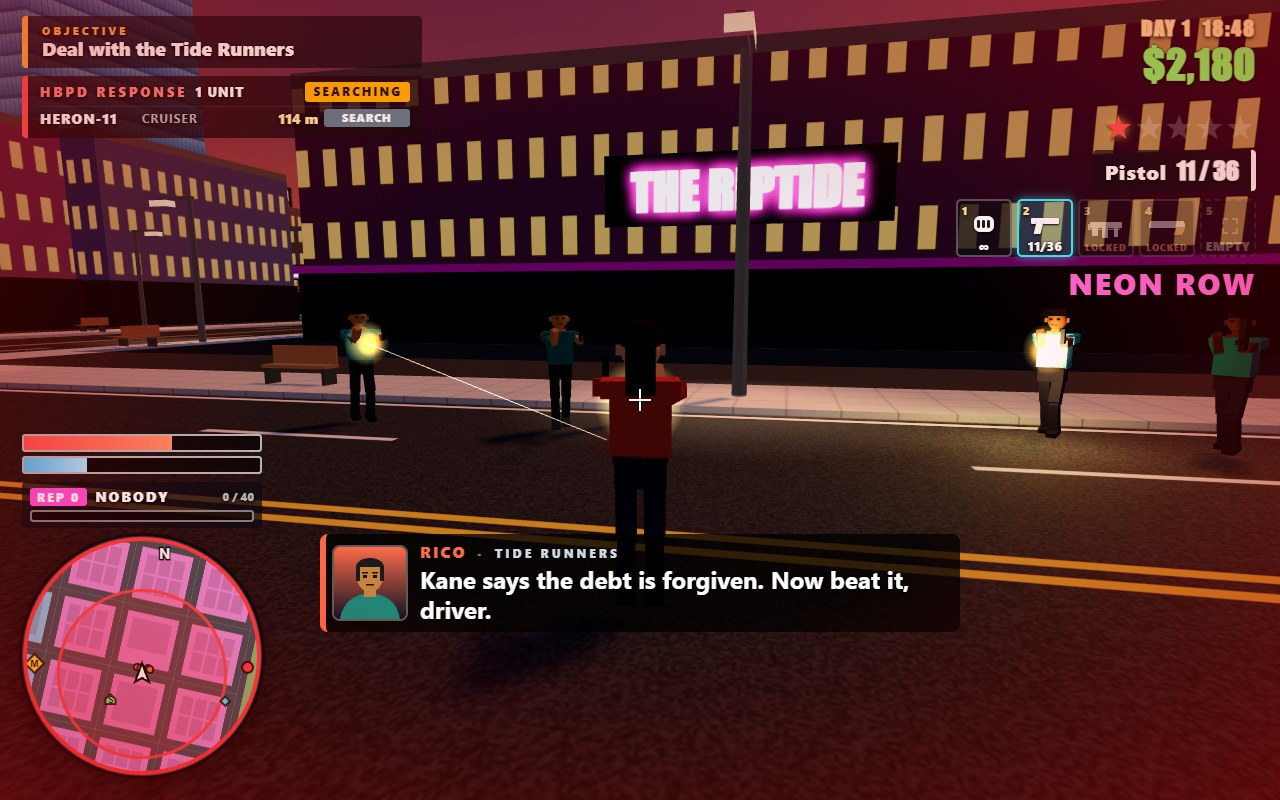
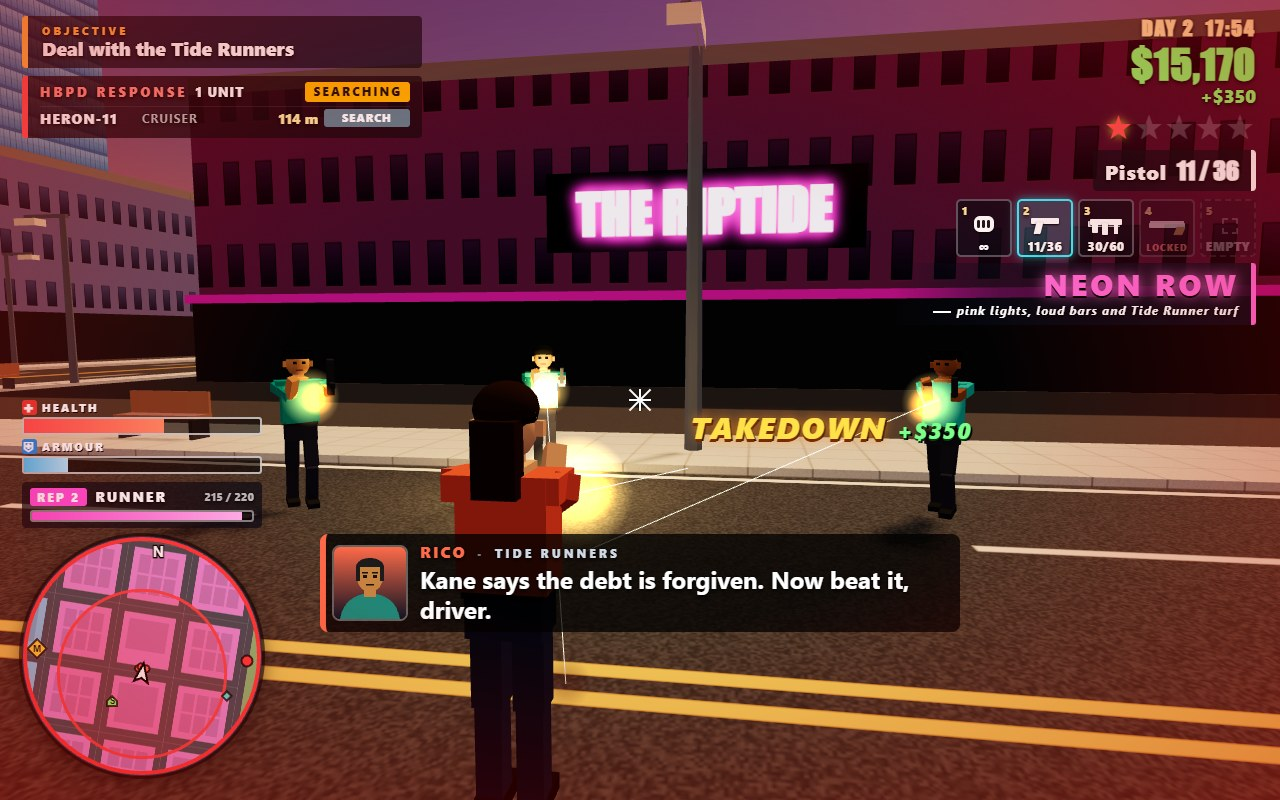
Eighth story mission Pier Pressure; vista shot replaces the map; brighter on-foot and side-card mission shots

diff --git a/game/src/shots.js b/game/src/shots.js
@@ -172,19 +172,23 @@ export async function stageShot(name, G) {
 
   if (name === 'onfoot') {
     const b = L.gangBar;
-    G.world.sky.setHour(18.8);
+    G.world.sky.setHour(17.9);
     G.player.revive(b.x + 1, b.z + 10, Math.PI);
-    G.economy.money = 2180;
+    G.missions.restore({ completed: ['welcome', 'clock', 'neon'] });
+    G.world.sky.state.day = 2;
+    G.economy.money = 14820;
+    G.economy.rep = 215;
     G.player.health = 64;
     G.player.armor = 30;
     G.weapons.give('pistol', 48);
+    G.weapons.give('smg', 90);
     G.weapons.select('pistol');
     G.wanted.setStars(1);
     G.wanted.search.x = b.x;
     G.wanted.search.z = b.z;
     G.wanted.search.r = 90;
     G.hud.setObjective('Deal with the Tide Runners');
-    const squad = G.gangs.spawnSquad([{ x: b.x - 4.5, z: b.z + 3 }, { x: b.x + 5, z: b.z + 2, weapon: 'smg' }, { x: b.x - 1, z: b.z + 5.5 }, { x: b.x + 9, z: b.z + 4.5 }]);
+    const squad = G.gangs.spawnSquad([{ x: b.x - 2.6, z: b.z + 4.2 }, { x: b.x + 3.2, z: b.z + 3.4, weapon: 'smg' }, { x: b.x + 0.2, z: b.z + 2.2 }]);
     crowd(G, [[b.x - 12, b.z + 6, true], [b.x - 9, b.z + 9, true], [b.x + 13, b.z + 7, true], [b.x + 16, b.z + 11, true], [b.x - 16, b.z + 12, true], [b.x + 7, b.z + 14, true]], { x: b.x, z: b.z });
     G.traffic.spawnCar({ x: b.x - 26, z: b.z + 20.5, yaw: Math.PI / 2, node: G.nav.node(8, 4), dir: 'e', lane: 0 }, 'coupe');
     G.traffic.spawnCar({ x: b.x + 24, z: b.z + 14.5, yaw: -Math.PI / 2, node: G.nav.node(8, 4), dir: 'w', lane: 1 }, 'taxi');
@@ -192,19 +196,30 @@ export async function stageShot(name, G) {
     G.camera.update(0.016, G.player.focus(new THREE.Vector3()), 'foot', null, G.input, G.world.colliders, window.innerWidth);
     G.simulate(0.7, 1 / 60);
     G.player.aimTimer = 3;
-    G.camera.snapTo(Math.PI + 0.22, 0.14);
-    G.camera.update(0.016, G.player.focus(new THREE.Vector3()), 'foot', null, G.input, G.world.colliders, window.innerWidth);
-    G.player.yaw = Math.PI + 0.22;
+    G.player.yaw = Math.PI + 0.08;
     G.simulate(0.02, 1 / 60);
     G.weapons.cooldown = 0;
     G.weapons.fire();
     G.gangs.shoot(squad[0]);
     G.gangs.shoot(squad[1]);
-    G.hud.say('Rico', 'Kane says the debt is forgiven. Now beat it, driver.', 8, '#ff6b4a');
+    G.gangs.shoot(squad[2]);
     G.simulate(1 / 60, 1 / 60);
-    G.camera.update(0.016, G.player.focus(new THREE.Vector3()), 'foot', null, G.input, G.world.colliders, window.innerWidth);
+    // Over Sol's right shoulder, close, the three Runners big in frame; a dusk grade bright enough
+    // to read the street under the neon.
+    G.camera.camera.fov = 58;
+    G.camera.camera.updateProjectionMatrix();
+    const p = G.player;
+    placeCamera(G, { x: p.x + 1.1, y: 2.25, z: p.z + 3.1 }, { x: b.x + 0.4, y: 1.25, z: b.z + 2.5 });
+    G.renderer.toneMappingExposure = 1.3;
+    G.world.sky.sun.color.set('#ffc890');
+    G.world.scene.fog.color.set('#c89a8a');
+    G.world.scene.traverse((o) => {
+      if (o.isHemisphereLight) { o.color.set('#ffe0c0'); o.groundColor.set('#8a7a90'); o.intensity *= 1.4; }
+    });
     finish();
     G.hud.say('Rico', 'Kane says the debt is forgiven. Now beat it, driver.', 8, '#ff6b4a');
+    G.hud.stunt('TAKEDOWN', 350, '', 'takedown');
+    G.hud.hitMarker(false);
     G.hud.update(0.016);
     return;
   }
@@ -227,27 +242,82 @@ export async function stageShot(name, G) {
   }
 
   if (name === 'mission') {
-    G.missions.restore({ completed: ['welcome', 'clock', 'neon', 'tail', 'docks'] });
+    // Pier Pressure (mission 7 of 8) just paid out: the white sedan parked on Ocean Drive at sunset,
+    // the compact results card at the right edge and the full HUD undimmed beside it.
+    G.missions.restore({ completed: ['welcome', 'clock', 'neon', 'tail', 'docks', 'bank'] });
+    G.world.sky.state.day = 2;
     G.economy.stats.carsStolen = 23;
-    G.economy.stats.escapes = 6;
+    G.economy.stats.escapes = 7;
     G.activities.restore({ shards: [0, 1, 3, 5, 7, 9, 11, 13, 15], racesWon: { coast: 1, downtown: 1 } });
-    G.player.distanceDriven = 42300;
-    const spot = L.bankRoad;
-    G.world.sky.setHour(17.7);
-    const car = G.fleet.spawn('coupe', spot.x, spot.z + 6, 0, { color: '#ffd166', role: 'player', owner: 'player' });
-    G.player.revive(spot.x - 4, spot.z + 2, Math.PI / 2);
+    G.player.distanceDriven = 48600;
+    G.world.sky.setHour(17.55);
+    const x = layout.roadX(4) + 30;
+    const z = layout.oceanZ + 1.75;
+    const car = G.fleet.spawn('sedan', x, z, Math.PI / 2 - 0.25, { color: '#f4f1e8', role: 'player', owner: 'player' });
+    G.player.revive(x - 2.5, z + 3.2, Math.PI);
+    G.weapons.give('pistol', 64);
+    G.weapons.give('smg', 120);
+    G.weapons.select('smg');
+    crowd(G, [[x + 6, layout.boardwalkZ + 2.5, false], [x - 8, layout.boardwalkZ + 3, false], [x + 14, layout.oceanZ - 9, false], [x - 14, layout.oceanZ - 8.6, false]], { x, z });
+    G.traffic.spawnCar({ x: x + 26, z: layout.oceanZ - 5.25, yaw: -Math.PI / 2, node: G.nav.node(5, 9), dir: 'w', lane: 1 }, 'taxi');
     G.simulate(0.4, 1 / 60);
-    const bank = G.missions.defs.find((d) => d.id === 'bank');
+    const pier = G.missions.defs.find((d) => d.id === 'pier');
     const tide = G.missions.defs.find((d) => d.id === 'tide');
-    G.missions.completed.add('bank');
-    G.economy.money = 9850;
-    G.economy.rep = 295;
-    G.economy.stats.missions = 6;
-    // From above the road, clear of the pavement palms, with the towers behind the panel.
-    const cam = { x: car.x - 6, y: 9.5, z: car.z + 24 };
-    placeCamera(G, cam, { x: car.x + 12, y: 13, z: car.z - 30 });
+    G.missions.completed.add('pier');
+    G.economy.money = 21480;
+    G.economy.rep = 395;
+    G.economy.stats.missions = 7;
+    // Low on the hotel side, the car in the left half of the frame, the beach and sunset sky behind.
+    G.camera.camera.fov = 52;
+    G.camera.camera.updateProjectionMatrix();
+    placeCamera(G, { x: car.x + 7, y: 2.6, z: car.z - 9 }, { x: car.x - 7, y: 2.4, z: car.z + 4 });
+    G.renderer.toneMappingExposure = 1.2;
     finish();
-    G.menus.showMissionComplete({ def: bank, money: 5000, rep: 80, levelUp: true, next: tide, finale: false });
+    G.menus.showMissionComplete({ def: pier, money: pier.reward.money, rep: pier.reward.rep, levelUp: false, next: tide, finale: false });
+    document.getElementById('menus').classList.add('side');
+    document.getElementById('hud').classList.remove('dimmed');
+    G.hud.update(0.016);
+    return;
+  }
+
+  if (name === 'vista') {
+    // High over Coral Strand at golden hour: the beach, the pier and its ferris wheel below, Ocean
+    // Drive's traffic and the boardwalk crowd, the Glasswater towers behind, the district card up.
+    G.missions.restore({ completed: ['welcome', 'clock', 'neon', 'tail'] });
+    G.world.sky.state.day = 2;
+    G.economy.money = 18640;
+    G.economy.rep = 260;
+    G.weapons.give('pistol', 48);
+    G.weapons.select('pistol');
+    G.world.sky.setHour(17.5);
+    const ps = L.pierStart;
+    for (let i = 0; i < 6; i += 1) {
+      const tx = ps.x - 70 + i * 26;
+      G.traffic.spawnCar({ x: tx, z: layout.oceanZ + (i % 2 ? 1.75 : 5.25), yaw: Math.PI / 2, node: G.nav.node(5, 9), dir: 'e', lane: i % 2 ? 0 : 1 }, ['taxi', 'sedan', 'coupe', 'pickup', 'van', 'taxi'][i]);
+      G.traffic.spawnCar({ x: tx + 12, z: layout.oceanZ - (i % 2 ? 1.75 : 5.25), yaw: -Math.PI / 2, node: G.nav.node(5, 9), dir: 'w', lane: i % 2 ? 0 : 1 }, ['sedan', 'coupe', 'taxi', 'van', 'sedan', 'pickup'][i]);
+    }
+    const walkers = [];
+    for (let i = 0; i < 18; i += 1) walkers.push([ps.x - 45 + i * 5, layout.boardwalkZ + 1.5 + (i % 3) * 1.5, false]);
+    for (let i = 0; i < 8; i += 1) walkers.push([ps.x - 30 + i * 8, layout.shoreZ - 6 - (i % 2) * 4, false]);
+    crowd(G, walkers, ps);
+    G.player.revive(ps.x - 6, ps.z + 1, 0);
+    G.simulate(1.2, 1 / 60);
+    // From over the water, looking back inland past the pier toward the towers.
+    const dx = L.plaza.x - L.pier.x;
+    const dz = L.plaza.z - L.pier.z;
+    const n = Math.hypot(dx, dz) || 1;
+    const ux = dx / n;
+    const uz = dz / n;
+    const cam = { x: L.pier.x - ux * 120 - uz * 50, y: 62, z: L.pier.z - uz * 120 + ux * 50 };
+    G.camera.camera.fov = 55;
+    G.camera.camera.updateProjectionMatrix();
+    placeCamera(G, cam, { x: L.pier.x + ux * 110, y: 4, z: L.pier.z + uz * 110 });
+    G.world.scene.fog.near = 200;
+    G.world.scene.fog.far = 1400;
+    G.world.scene.fog.color.set('#ffb070');
+    G.renderer.toneMappingExposure = 1.2;
+    G.world.sky.sun.color.set('#ffb468');
+    finish();
     return;
   }
 

diff --git a/game/src/missions/story.js b/game/src/missions/story.js
@@ -415,6 +415,60 @@ export function storyMissions(L) {
       ],
     },
     {
+      id: 'pier', title: 'Pier Pressure', giver: 'ruiz', start: L.plaza, reward: { money: 6500, rep: 100 },
+      brief: "Steal Kane's marked car from Saltmarsh Docks and run it through the roadblocks to Pelican Key.",
+      stages: [
+        {
+          objective: 'Listen to Detective Ruiz',
+          enter(ctx) {
+            ctx.actor('ruiz', L.plaza.x + 2, L.plaza.z + 9);
+            ctx.say('ruiz', 'Kane is moving tonight. His crew marked a white sedan at Saltmarsh Docks: the ledgers are in the trunk.');
+            ctx.say('sol', 'And you want me to drive it past your own roadblocks.');
+            ctx.say('ruiz', 'I want it on Pelican Key, in one piece. The uniforms do not know whose side I am on. Neither should you.');
+          },
+          update: (ctx) => (ctx.talking() ? null : 'next'),
+        },
+        {
+          objective: 'Steal the marked car at Saltmarsh Docks',
+          enter(ctx) {
+            const s = L.docksYardRoad;
+            ctx.data.car = ctx.spawnCar('sedan', s.x, s.z, 0, { color: '#f4f1e8', parked: true });
+          },
+          update(ctx) {
+            const c = ctx.data.car;
+            if (c.wrecked) return 'fail:The marked car was wrecked';
+            ctx.waypoint(c.x, c.z);
+            if (ctx.player.vehicle === c) {
+              ctx.setWanted(3);
+              ctx.say('radio', 'Sol, HBPD just put a roadblock on the causeway. Go through it or around it, but go!');
+              return 'next';
+            }
+            return null;
+          },
+        },
+        {
+          objective: 'Outrun the roadblock to Pelican Key',
+          enter(ctx) {
+            const lh = L.lighthouse;
+            ctx.goTo(lh.x + 8, lh.z + 6, { radius: 12, needVehicle: true, label: 'Pelican Key' });
+            ctx.hint('Ram the gap between the cruisers, or take the beach road around them');
+          },
+          update(ctx) {
+            if (ctx.data.car.wrecked) return 'fail:The marked car was wrecked';
+            if (ctx.reached()) {
+              ctx.setWanted(0);
+              ctx.releaseVehicle(ctx.data.car);
+              ctx.say('ruiz', 'Ledgers are safe. Kane will know it was you by morning.');
+              ctx.say('sol', 'Good. Let him come.');
+              return 'next';
+            }
+            return null;
+          },
+        },
+        { objective: '', enter() {}, update: (ctx) => (ctx.talking() ? null : 'next') },
+      ],
+    },
+    {
       id: 'tide', title: 'High Tide', giver: 'teo', start: L.garage, reward: { money: 10000, rep: 150 }, finale: true,
       brief: 'Kane has Dani at Halcyon Pier. End it.',
       stages: [

diff --git a/game/src/hud/styles.css b/game/src/hud/styles.css
@@ -227,6 +227,15 @@ table.controls { border-collapse: collapse; margin: 0 auto; text-align: left; fo
 table.controls td { padding: 5px 14px; }
 kbd { background: #fff; color: #000; padding: 2px 8px; border-radius: 4px; font-weight: 800; font-family: var(--font); }
 .panel.complete { min-width: 640px; border-top-color: #8bff6b; }
+/* Screenshot layout: a compact results card at the right edge, the scene and HUD left clear. */
+#menus.side { justify-content: flex-end; align-items: center; padding: 250px 28px 0 0; pointer-events: none; }
+#menus.side .panel.complete { min-width: 0; width: 430px; padding: 16px 22px; background: rgba(8, 14, 28, 0.78); }
+#menus.side .panel.complete h1 { font-size: 36px; }
+#menus.side .reward b { font-size: 24px; }
+#menus.side .rewards { gap: 16px; margin: 6px 0 10px; }
+#menus.side .cp-stats { grid-template-columns: 1fr 1fr; font-size: 13px; margin-bottom: 10px; }
+#menus.side .cp-stats b { font-size: 15px; }
+#menus.side .btn.big { font-size: 18px; padding: 8px 20px; }
 .complete-kicker { font-size: 18px; letter-spacing: 6px; color: #8bff6b; font-weight: 900; }
 .panel.complete h1 { font-size: 56px; margin-bottom: 8px; color: var(--sun); }
 .rewards { display: flex; justify-content: center; gap: 30px; margin: 10px 0 18px; }

diff --git a/game/index.html b/game/index.html
@@ -13,7 +13,7 @@
 <div id="hud" class="hidden">
   <div id="top-left">
     <div id="mission-panel" class="hidden compact">
-      <div id="mission-head"><span id="mission-chip">MISSION 1/7</span><span id="mission-title"></span><span id="mission-timer" class="hidden"></span></div>
+      <div id="mission-head"><span id="mission-chip">MISSION 1/8</span><span id="mission-title"></span><span id="mission-timer" class="hidden"></span></div>
       <div id="objective" class="hidden"><span class="tag">OBJECTIVE</span><span id="objective-text"></span></div>
       <div id="mission-stage"><div id="stage-segs"></div><span id="stage-label">STAGE 1/4</span></div>
       <div id="mission-next"><span class="tag">NEXT</span><span id="mission-next-text"></span></div>

diff --git a/README.md b/README.md
@@ -6,7 +6,7 @@
 An original 3D open-world crime game in the browser, set in Halcyon Bay: a sun-soaked coastal city at
 golden hour with five districts (Coral Strand, Glasswater Downtown, Neon Row, Palmetto Heights and
 Saltmarsh Docks), traffic, pedestrians, cars to steal, a five-star wanted system with cruisers, roadblocks
-and a helicopter, seven story missions, street races, taxi fares, sea-glass shards, paint shops and
+and a helicopter, eight story missions, street races, taxi fares, sea-glass shards, paint shops and
 safehouses with saving. You play Marisol "Sol" Vega, a getaway driver back in town to pull her uncle Teo
 out of a debt to Kane Okafor's crew. Everything is built in code with three.js: geometry, canvas
 textures, synthesized sound and three procedural radio stations. No network requests at run time.
